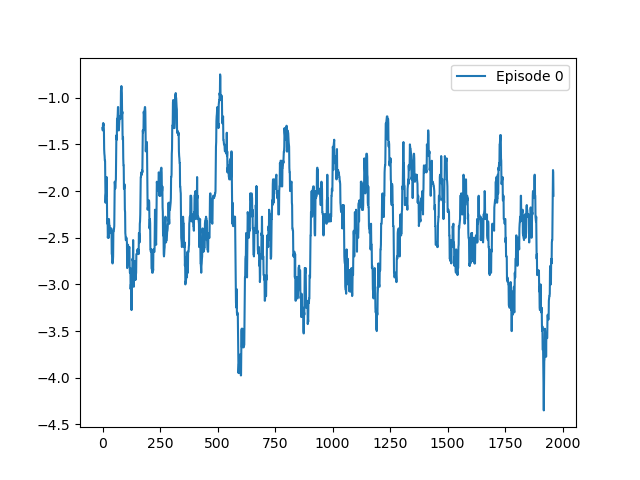
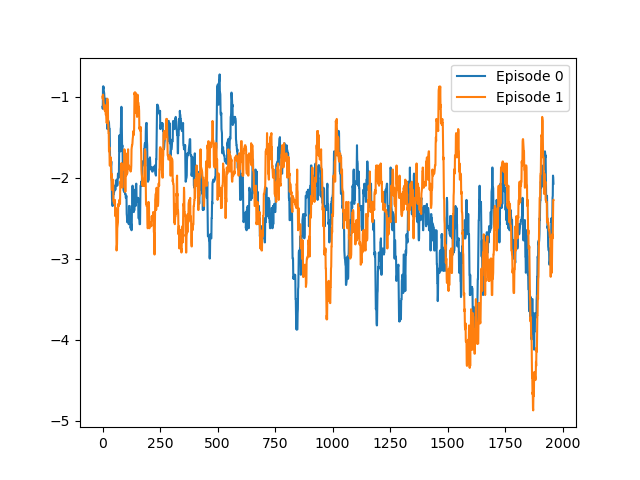
Update

diff --git a/solvers/base_heuristic.py b/solvers/base_heuristic.py
@@ -36,7 +36,7 @@ class Solver(GenericSolver):
         ]
         return service_placement
 
-    def current_solution_works(self):
+    def current_solution_works(self, show_why: bool = True):
         """
         Checks if the current solution works.
         """
@@ -44,6 +44,9 @@ class Solver(GenericSolver):
         self._update_edge_attributes()
         self._reset_node_attributes()
         self._update_node_attributes()
+
+        if show_why:
+            self._assert_all_constraints()
 
         try:
             self._assert_all_constraints()
@@ -57,13 +60,15 @@ class Solver(GenericSolver):
         start_time = time.time()
         # On attribue les serveurs aléatoirement. Autre possibilité : on attribue les points milieus des services
         # self.service_placement = self._generate_random_server_attribution()
+
+        node_with_max_resources = np.argmax(
+            [
+                self.nx_graph.nodes[node]["available_resources"]
+                for node in self.nx_graph.nodes
+            ]
+        )
         self.service_placement = [
-            np.argmax(
-                [
-                    self.nx_graph.nodes[node]["available_resources"]
-                    for node in self.nx_graph.nodes
-                ]
-            )
+            node_with_max_resources
             for _ in range(self.problem_instance.number_of_service)
         ]
         self.paths_used = [
@@ -86,7 +91,7 @@ class Solver(GenericSolver):
             1 for _ in range(self.problem_instance.total_number_of_demands)
         ]
 
-        assert self.current_solution_works()
+        self.current_solution_works()
 
         while not self.current_solution_works():
             problematic_demand = self.find_problematic_demand_path()
@@ -110,6 +115,7 @@ class Solver(GenericSolver):
         self.update_variables()
 
     def compute_first_shortest_path(self) -> list:
+        print(self.problem_instance.origins)
         return [
             self._select_shortest_path(
                 self.problem_instance.origins[demand_index],

diff --git a/utils/make_tree_instance.py b/utils/make_tree_instance.py
@@ -43,7 +43,7 @@ def make_tree_instance(
 
     resources = [10] * number_of_users + [10, 1000]
     capacities = (
-        [20] * 2 * (nx_graph.number_of_edges() - number_of_users - 1)
+        [number_of_users * 10] * 2 * (nx_graph.number_of_edges() - number_of_users - 1)
         + [100] * 2 * number_of_users
         + [1000] * 2
     )
@@ -62,15 +62,19 @@ def make_tree_instance(
     # Create services, one per user
     services = []
     for user_index in range(number_of_users):
+        demand_user = Demand(
+            origin_node_index=user_index, flow_min=1, flow_max=20, max_latency=20
+        )
+        demand_server = Demand(
+            origin_node_index=nx_graph.number_of_nodes() - 1,
+            flow_min=1,
+            flow_max=50,
+            max_latency=20 * number_of_users,
+        )
         service = Service(
             task_list=[
-                Demand(origin_node_index=0, flow_min=1, flow_max=20, max_latency=20),
-                Demand(
-                    origin_node_index=nx_graph.number_of_nodes() - 1,
-                    flow_min=1,
-                    flow_max=50,
-                    max_latency=20 * number_of_users,
-                ),
+                demand_user,
+                demand_server,
             ],
             network_graph=network_graph,
             resources_needed=5,

diff --git a/problem_classes/solvinginstance.py b/problem_classes/solvinginstance.py
@@ -1,0 +1,17 @@
+from problem_classes.networkgraph import NetworkGraph
+from problem_classes.servicepackage import ServicePackage
+from problem_classes.probleminstance import ProblemInstance
+import numpy as np
+import networkx as nx
+from utils.pickle import pickle_save
+import matplotlib.pyplot as plt
+from utils.graph_utils import path_node_to_path_tuple, path_tuple_to_path_node
+
+
+class SolvingInstance:
+    def __init__(self, problem_instance: ProblemInstance):
+        self.problem_instance = problem_instance
+        self.graph = problem_instance.network_graph.nx_graph
+
+    def build_initial_solution(self):
+        pass

diff --git a/main.py b/main.py
@@ -1,0 +1,15 @@
+from utils.make_tree_instance import make_tree_instance
+from utils.data_management import solve
+import os
+
+os.environ["KMP_DUPLICATE_LIB_OK"] = "TRUE"
+
+users = 5
+neighbors = 4
+instance_name = "tree_{}_{}".format(users, neighbors)
+solver_name = "base_heuristic"
+problem_instance = make_tree_instance(
+    number_of_users=users, neighbors_connection=neighbors
+)
+problem_instance, solver = solve(instance_name, solver_name)
+print(solver.score)

diff --git a/utils/data_management.py b/utils/data_management.py
@@ -181,6 +181,9 @@ def solve(
     check_solution: bool = False,
     initial_variable=None,
 ) -> tuple[ProblemInstance, GenericSolver]:
+    """
+    Allows to solve an instance by its name and by the solver name.
+    """
     instance = import_instance_from_file(instance_name)
     solver = import_solver_from_file(solver_name, instance)
 

diff --git a/debug_cmaes.py b/debug_cmaes.py
@@ -8,7 +8,7 @@ import matplotlib.pyplot as plt
 
 os.environ["KMP_DUPLICATE_LIB_OK"] = "TRUE"
 
-users = 8
+users = 5
 neighbors = 4
 instance_name = "tree_{}_{}".format(users, neighbors)
 solver_name = "base_heuristic"

diff --git a/debug_heuristique.py b/debug_heuristique.py
@@ -6,7 +6,7 @@ import os
 
 os.environ["KMP_DUPLICATE_LIB_OK"] = "TRUE"
 
-users = 15
+users = 5
 neighbors = 4
 instance_name = "tree_{}_{}".format(users, neighbors)
 solver_name = "base_heuristic"

diff --git a/debug_rl_env.py b/debug_rl_env.py
@@ -6,7 +6,7 @@ import os
 
 os.environ["KMP_DUPLICATE_LIB_OK"] = "TRUE"
 
-users = 15
+users = 5
 neighbors = 4
 instance_name = "tree_{}_{}".format(users, neighbors)
 solver_name = "rl_base"
